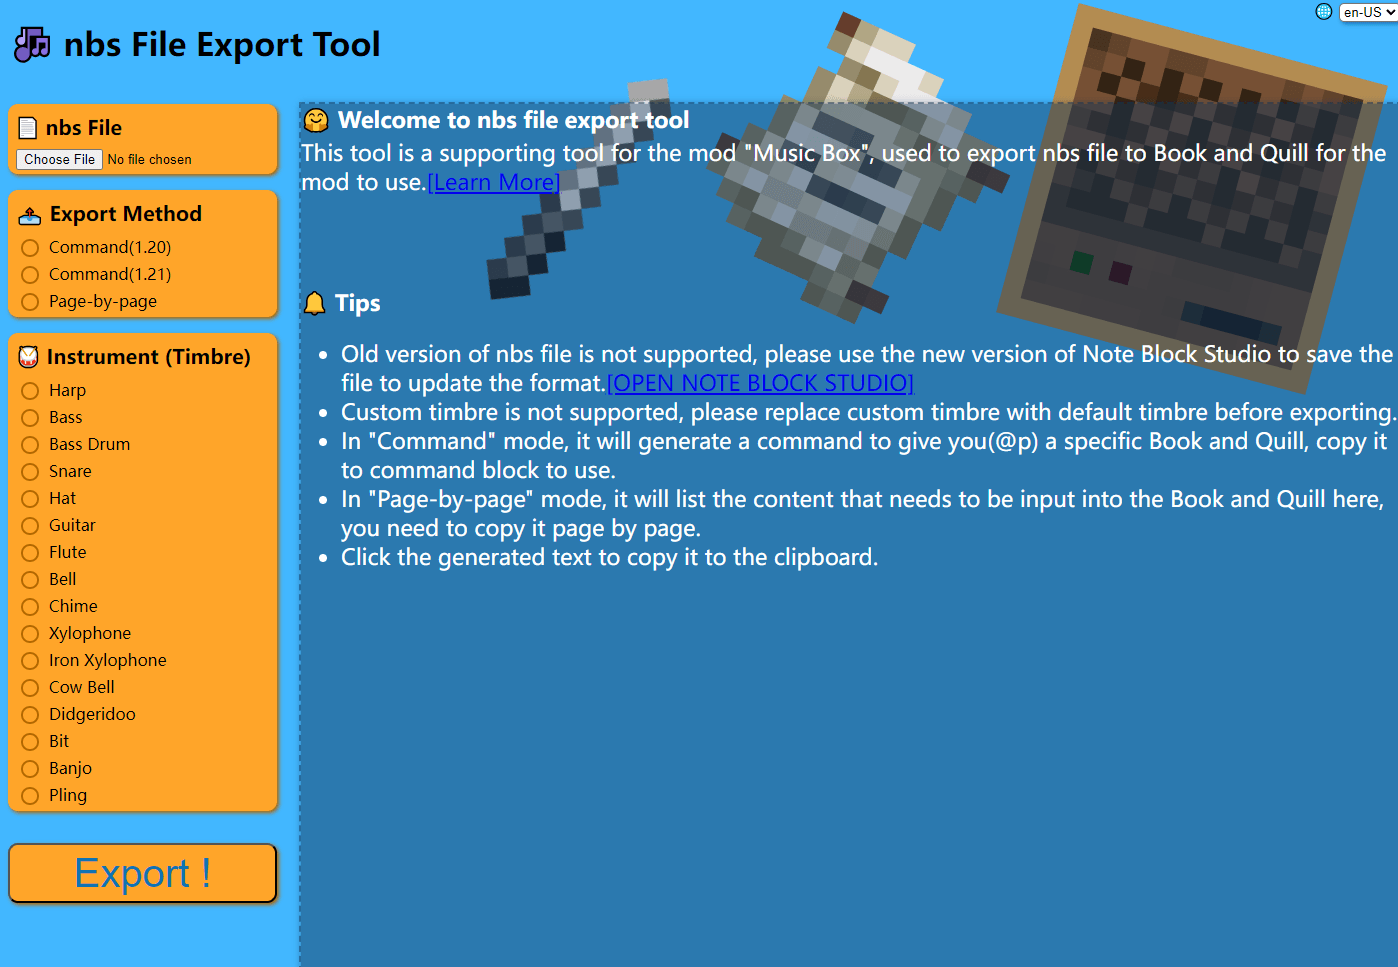
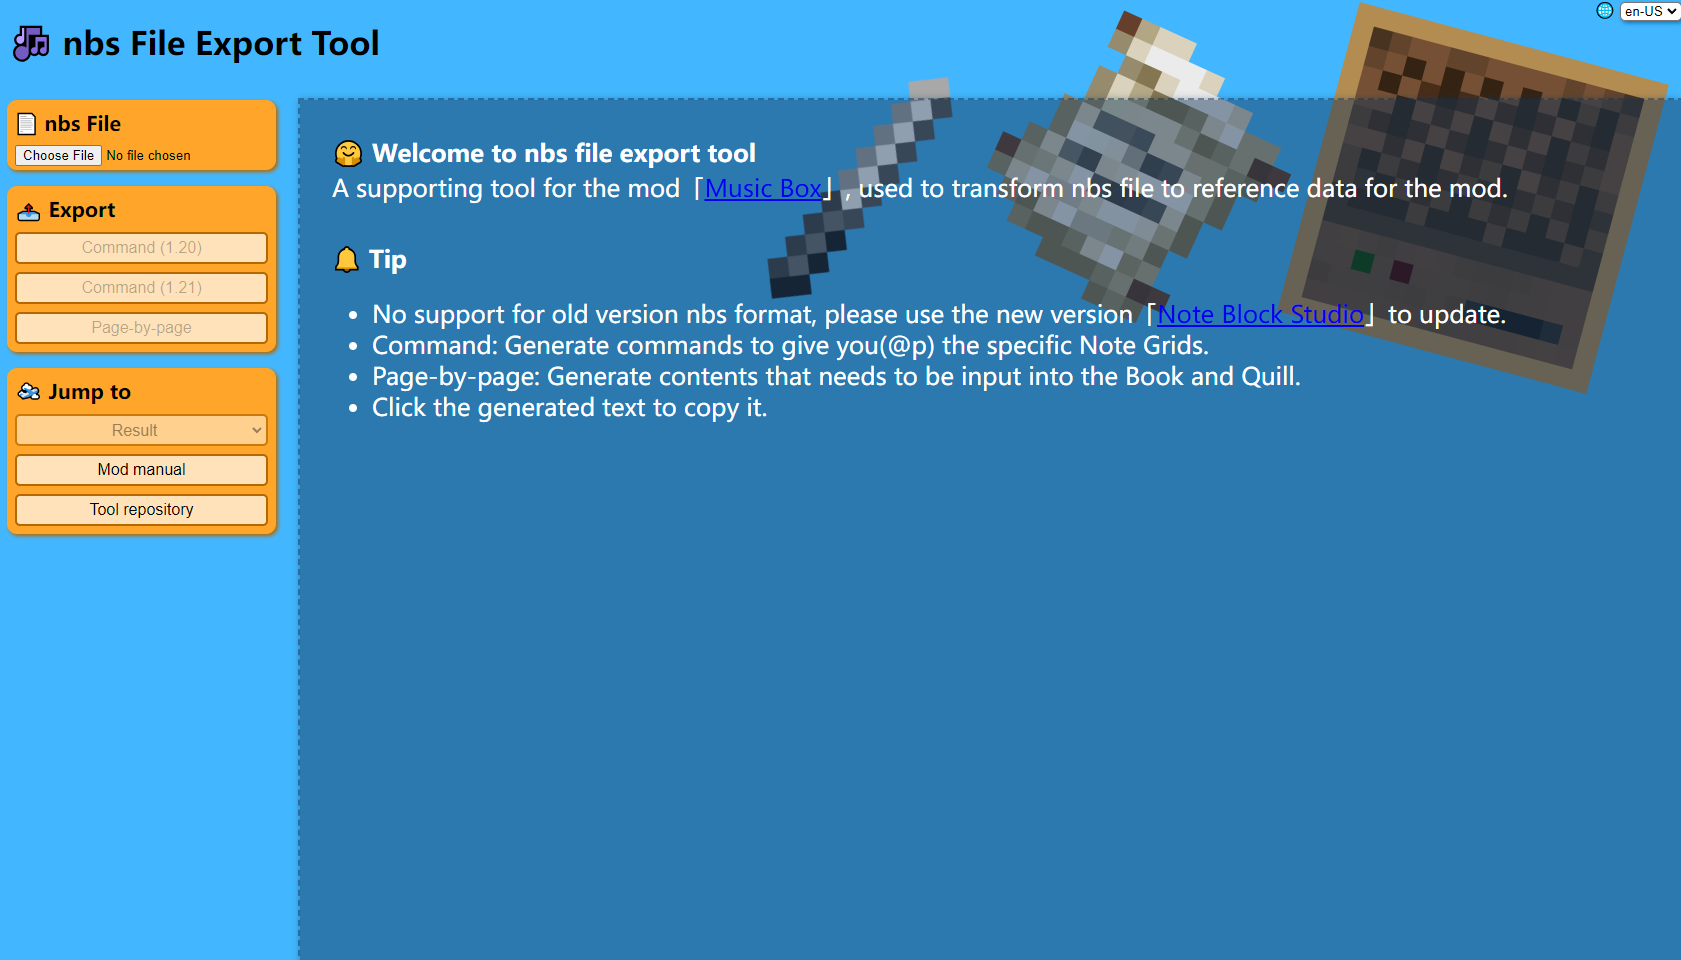
更新 NBS 文件导出工具链接并修改相关描述

diff --git a/README.md b/README.md
@@ -245,12 +245,9 @@ By writing the content of the book and quill, it can be used as reference data t
     * Take "Twinkle Twinkle Little Star" as an example:
         * Numbered musical notation: `1, 1, 5, 5, 6, 6, 5, 0, 4, 4, 3, 3, 2, 2, 1`.
         * Book content: `r.r.i.i.o.o.i..u.u.y.y.t.t.r`.
-    * Use the [NBS File Export Tool](https://c20c01.github.io/Mods/MusicBox/Tool) to automatically convert your `nbs`
-      file into the content of the book and quill:
-      ![Export Tool](README/assets/NBSTool.png)
-        * Only supports new version nbs files. If it cannot be loaded, please use the new version
-          of [Note Block Studio](https://opennbs.org/) to upgrade the file format.
-        * Custom timbre is not supported, you can convert it to the original timbre first, and then export it.
+* Use the [NBS File Export Tool](https://c20c01.github.io/MusicBoxTool) to automatically convert your `nbs`
+  file into the reference data for the mod:
+  ![Export Tool](README/assets/NBSTool.png)
 
 [Here](README/Songs.md) are some results exported using nbs files(collected from the Internet,
 some of which have been modified).

diff --git a/README/README_zh.md b/README/README_zh.md
@@ -231,10 +231,8 @@ https://github.com/user-attachments/assets/af37487b-0693-4638-988d-5dac99e76190
         * 简谱（0为空拍）：`1，1，5，5，6，6，5，0，4，4，3，3，2，2，1`。
         * 书本内容：`r.r.i.i.o.o.i..u.u.y.y.t.t.r`。
     * 如果有多声部，就在对应的拍子那里添加上对应的键位即可。
-* 使用[NBS 文件导出工具](https://c20c01.github.io/Mods/MusicBox/Tool)可将你的`nbs`文件自动转换成书与笔的内容：
+* 使用[NBS 文件导出工具](https://c20c01.github.io/MusicBoxTool)可将你的`nbs`文件自动转换成参考数据：
   ![导出工具](assets/NBSTool.png)
-    * 只支持新版nbs文件。无法加载时，请使用新版[Note Block Studio](https://opennbs.org/)重新保存以更新文件格式。
-    * 不支持自定义音色，可以先转成原版有的乐器，之后再进行导出。
 
 [此处](Songs.md)有一些使用nbs文件（网络上收集的，有些经过了修改）进行导出后的结果。
 
